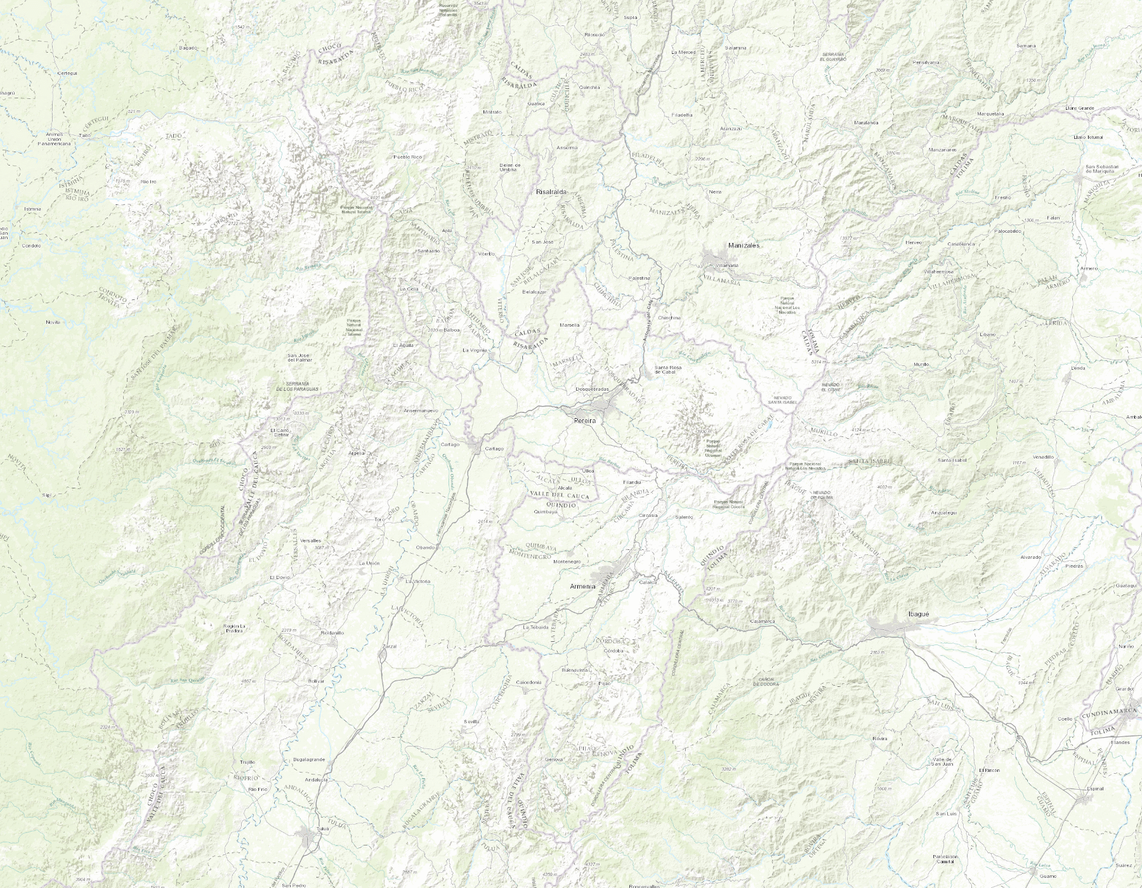
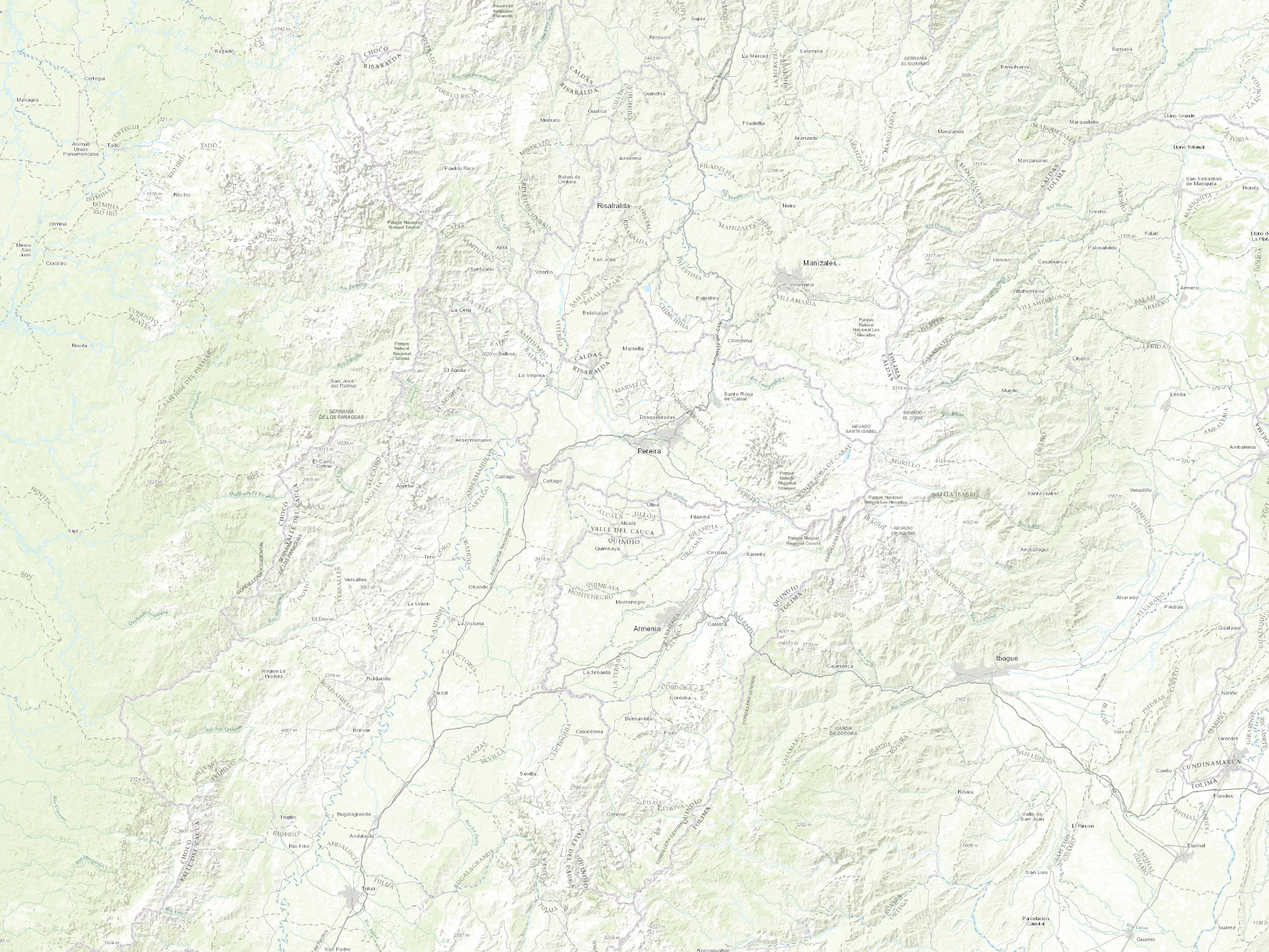
MP2: mejorar mapa base cartografico con labels grandes de ciudades

Changed region(s): [[0.0, 0.0, 1.0, 1.0], [0.0, 0.5529, 0.0622, 0.6143]]

diff --git a/proyecto 2/scripts/python/03b_mapa_base_cartografico.py b/proyecto 2/scripts/python/03b_mapa_base_cartografico.py
@@ -1,0 +1,78 @@
+#!/usr/bin/env python3
+"""Genera mapa base cartográfico del bbox MP2 con etiquetas grandes de ciudades."""
+
+from pathlib import Path
+from urllib.request import urlopen
+import ssl
+import matplotlib.pyplot as plt
+
+LON_MIN, LON_MAX = -76.5, -75.0
+LAT_MIN, LAT_MAX = 4.0, 5.5
+
+CITIES = {
+    "Pereira": (4.8143, -75.6946),
+    "Armenia": (4.5339, -75.6811),
+    "Manizales": (5.0703, -75.5138),
+    "Ibagué": (4.4389, -75.2322),
+    "Dosquebradas": (4.8392, -75.6673),
+    "Santa Rosa de Cabal": (4.8681, -75.6214),
+    "Chinchiná": (4.9833, -75.6036),
+    "Cartago": (4.7464, -75.9117),
+}
+
+
+def download_basemap(out_path: Path) -> None:
+    url = (
+        "https://server.arcgisonline.com/ArcGIS/rest/services/World_Topo_Map/MapServer/export"
+        f"?bbox={LON_MIN},{LAT_MIN},{LON_MAX},{LAT_MAX}"
+        "&bboxSR=4326&imageSR=4326&size=2000,1500&format=png&f=image"
+    )
+    ctx = ssl._create_unverified_context()
+    with urlopen(url, context=ctx, timeout=30) as r:
+        out_path.write_bytes(r.read())
+
+
+def main() -> None:
+    root = Path(__file__).resolve().parents[2]
+    plots = root / "results" / "plots"
+    plots.mkdir(parents=True, exist_ok=True)
+
+    basemap = plots / "03_basemap_arcgis_bbox.png"
+    out_map = plots / "03_mapa_base_municipios.png"
+
+    download_basemap(basemap)
+
+    img = plt.imread(basemap)
+    fig, ax = plt.subplots(figsize=(9, 7))
+    ax.imshow(img, extent=[LON_MIN, LON_MAX, LAT_MIN, LAT_MAX], origin="upper")
+
+    for name, (lat, lon) in CITIES.items():
+        if LAT_MIN <= lat <= LAT_MAX and LON_MIN <= lon <= LON_MAX:
+            ax.scatter(lon, lat, s=75, c="yellow", edgecolors="black", linewidths=1.0, zorder=3)
+            ax.text(
+                lon + 0.02,
+                lat + 0.015,
+                name,
+                fontsize=12,
+                fontweight="bold",
+                color="black",
+                bbox=dict(boxstyle="round,pad=0.25", fc="white", ec="black", alpha=0.88),
+                zorder=4,
+            )
+
+    ax.set_title("Mapa base cartográfico de la región de estudio (MP2)")
+    ax.set_xlabel("Longitud [°]")
+    ax.set_ylabel("Latitud [°]")
+    ax.set_xlim(LON_MIN, LON_MAX)
+    ax.set_ylim(LAT_MIN, LAT_MAX)
+    ax.grid(alpha=0.25)
+
+    fig.tight_layout()
+    fig.savefig(out_map, dpi=240)
+    plt.close(fig)
+
+    print(f"[OK] {out_map}")
+
+
+if __name__ == "__main__":
+    main()
